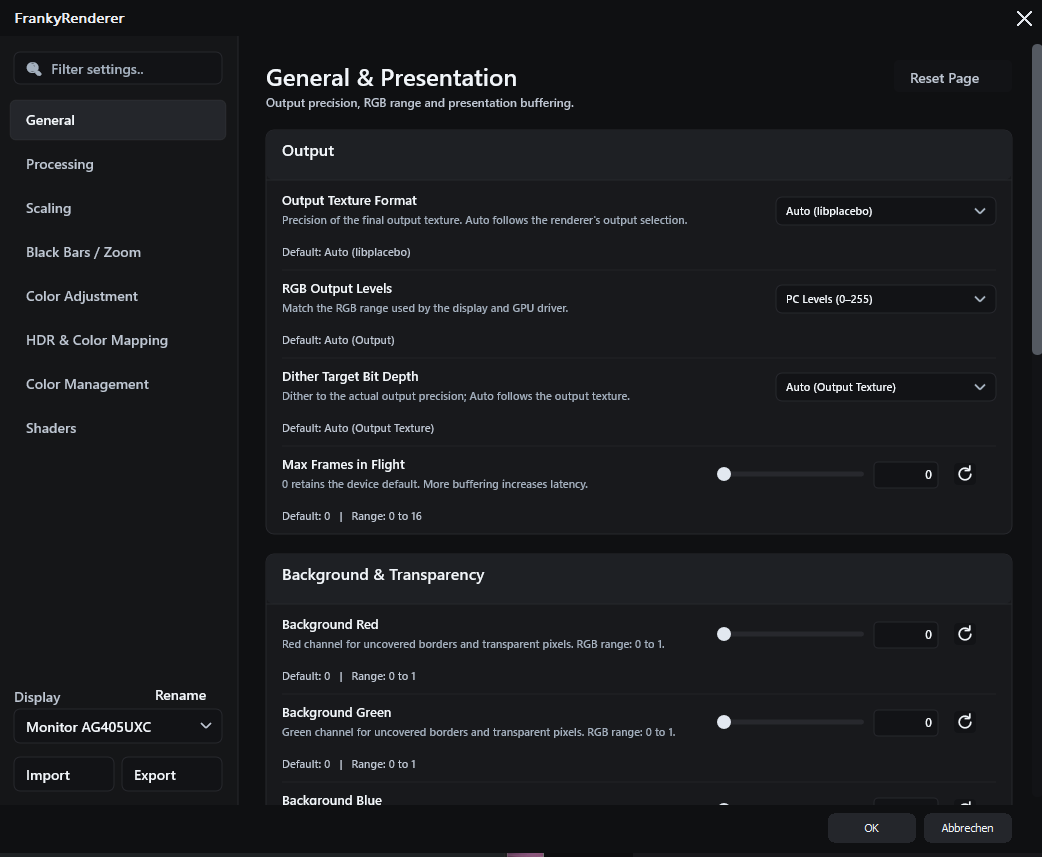
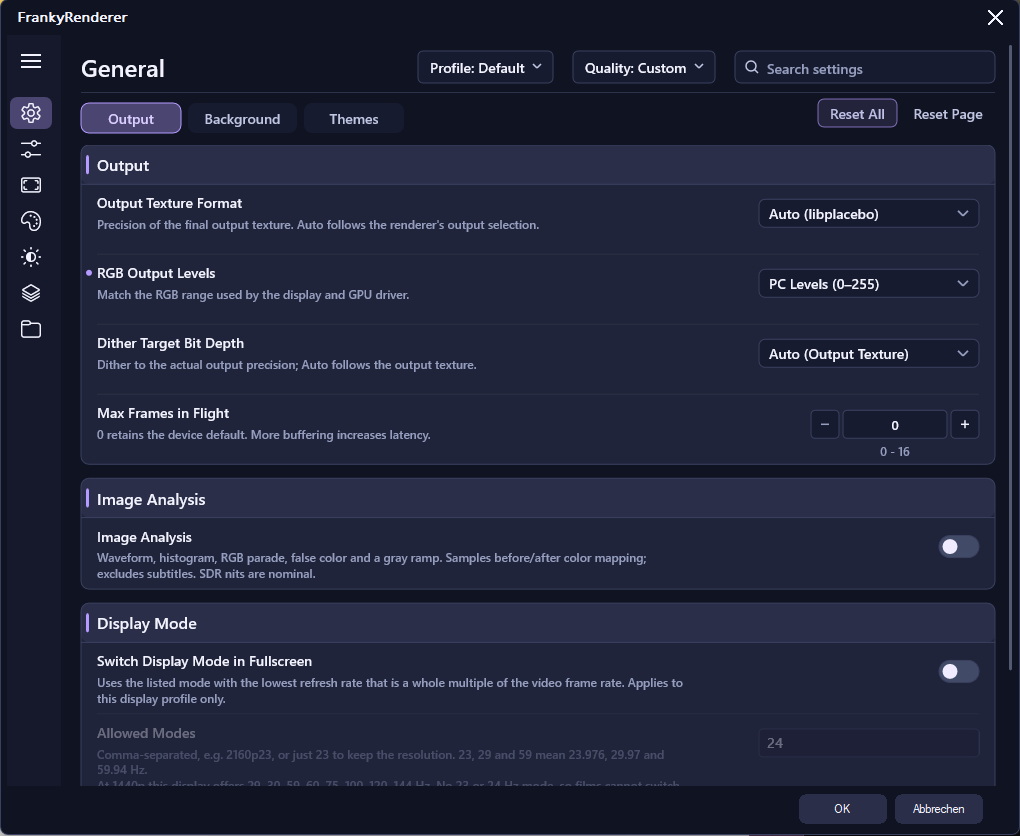
README: features and screenshots for 1.2

diff --git a/README.md b/README.md
@@ -18,14 +18,14 @@ Questions, ideas and general feedback are welcome in [Discussions](https://githu
 
 <table>
   <tr>
-    <td align="center"><a href="https://raw.githubusercontent.com/mryx007/FrankyRenderer/main/docs/screenshots/general.png"><img src="docs/screenshots/general.png" width="240" alt="General &amp; Presentation"></a><br><sub>General &amp; Presentation</sub></td>
-    <td align="center"><a href="https://raw.githubusercontent.com/mryx007/FrankyRenderer/main/docs/screenshots/scaling.png"><img src="docs/screenshots/scaling.png" width="240" alt="Scaling &amp; Frame Mixing"></a><br><sub>Scaling &amp; Frame Mixing</sub></td>
-    <td align="center"><a href="https://raw.githubusercontent.com/mryx007/FrankyRenderer/main/docs/screenshots/color-adjustment.png"><img src="docs/screenshots/color-adjustment.png" width="240" alt="Color Adjustment"></a><br><sub>Color Adjustment</sub></td>
+    <td align="center"><a href="https://raw.githubusercontent.com/mryx007/FrankyRenderer/main/docs/screenshots/general.png"><img src="docs/screenshots/general.png" width="240" alt="General"></a><br><sub>General</sub></td>
+    <td align="center"><a href="https://raw.githubusercontent.com/mryx007/FrankyRenderer/main/docs/screenshots/scaling.png"><img src="docs/screenshots/scaling.png" width="240" alt="Scaling"></a><br><sub>Scaling</sub></td>
+    <td align="center"><a href="https://raw.githubusercontent.com/mryx007/FrankyRenderer/main/docs/screenshots/color-calibration.png"><img src="docs/screenshots/color-calibration.png" width="240" alt="Color calibration (light theme)"></a><br><sub>Color calibration (light theme)</sub></td>
   </tr>
   <tr>
-    <td align="center"><a href="https://raw.githubusercontent.com/mryx007/FrankyRenderer/main/docs/screenshots/hdr-color-mapping.png"><img src="docs/screenshots/hdr-color-mapping.png" width="240" alt="HDR &amp; Color Mapping"></a><br><sub>HDR &amp; Color Mapping</sub></td>
-    <td align="center"><a href="https://raw.githubusercontent.com/mryx007/FrankyRenderer/main/docs/screenshots/color-management.png"><img src="docs/screenshots/color-management.png" width="240" alt="Color Management"></a><br><sub>Color Management</sub></td>
-    <td align="center"><a href="https://raw.githubusercontent.com/mryx007/FrankyRenderer/main/docs/screenshots/shaders.png"><img src="docs/screenshots/shaders.png" width="240" alt="Shader Chain"></a><br><sub>Shader Chain</sub></td>
+    <td align="center"><a href="https://raw.githubusercontent.com/mryx007/FrankyRenderer/main/docs/screenshots/hdr.png"><img src="docs/screenshots/hdr.png" width="240" alt="HDR"></a><br><sub>HDR</sub></td>
+    <td align="center"><a href="https://raw.githubusercontent.com/mryx007/FrankyRenderer/main/docs/screenshots/shaders.png"><img src="docs/screenshots/shaders.png" width="240" alt="Shaders"></a><br><sub>Shaders</sub></td>
+    <td align="center"><a href="https://raw.githubusercontent.com/mryx007/FrankyRenderer/main/docs/screenshots/profiles.png"><img src="docs/screenshots/profiles.png" width="240" alt="Profiles"></a><br><sub>Profiles</sub></td>
   </tr>
 </table>
 
@@ -43,8 +43,13 @@ Click a preview to open the full-size image. The screenshots show example settin
 - Support for 8-, 10-, 12- and 16-bit input layouts, including NV12, P010/P012/P016, planar YUV, packed YUV, RGB and grayscale formats. Native GPU input depends on the decoder's texture format and device capabilities.
 - Selectable output texture format: automatic, 8-bit integer, preferred 10-bit integer or preferred 16-bit float.
 - Configurable RGB output levels, dither target bit depth and maximum frames in flight.
-- D3D11 subtitle composition through compatible host callbacks.
-- Automatic Dolby Vision Profile 7 FEL/MEL processing for supported local progressive files, integrated into the renderer without an additional DirectShow filter. The existing splitter and base-layer decoder remain in use; enhancement data is read from the same local file.
+- Display mode switching in fullscreen like madVR: each display has its own list of allowed modes (for example 2160p23, 2160p24, 2160p50, 2160p60), the original mode is restored when leaving fullscreen or stopping, and playback can pause while the TV resynchronises.
+- D3D11 subtitle composition through compatible host callbacks, and XySubFilter support.
+
+### Dolby Vision and HDR metadata
+
+- Automatic Dolby Vision Profile 7 FEL/MEL processing for local files, including UHD Blu-ray BDMV `.m2ts` clips and `.mpls` playlists, integrated into the renderer without an additional DirectShow filter. The existing splitter and base-layer decoder remain in use.
+- Dolby Vision Profile 5 and 8, HDR10 and HDR10+ metadata (including the HDR10+ tone-mapping curve) is applied even when the player's decoder does not pass it on.
 
 ### Scaling and Smooth Motion
 
@@ -52,8 +57,8 @@ Click a preview to open the full-size image. The screenshots show example settin
 - EWA Lanczos / Jinc, EWA Lanczos Sharp, Lanczos, Spline16/36/64, Mitchell, Bicubic, Robidoux and additional libplacebo filters.
 - Custom filter editor with a starting filter, kernel, window, radius, clamp, blur, taper, anti-ringing, kernel/window parameters and EWA mode.
 - Global anti-ringing strength and configurable downscaling anti-aliasing behavior.
-- Smooth Motion through temporal frame mixing, with selectable and customizable frame mixer filters.
-- Optional NVIDIA RTX Video Super Resolution through the driver, without an additional NVIDIA runtime DLL or helper process. Enable Super Resolution and choose quality in the NVIDIA app or Control Panel. Processed source images are cached before Smooth Motion; subtitles and final color processing follow afterward. Supports SDR and HDR10/PQ with 8-/10-bit processing; unsupported formats and native-size/downscaled output keep normal libplacebo scaling. Statistics report the driver request, not independently confirmed AI activity. Dolby Vision, HLG, linear, rotated and alpha-bearing input use normal scaling.
+- Smooth Motion through temporal frame mixing, with selectable and customizable frame mixer filters, "Present in Advance" (1 to 4 refreshes or automatic, like madVR) and an "Oversample Threshold" for fewer double edges on motion.
+- Optional NVIDIA RTX Video Super Resolution through the driver, without an additional NVIDIA runtime DLL or helper process. Enable Super Resolution and choose quality in the NVIDIA app or Control Panel. Supports SDR and HDR10/PQ with 8-/10-bit processing; unsupported formats and native-size/downscaled output keep normal libplacebo scaling.
 
 ### Image processing
 
@@ -61,14 +66,16 @@ Click a preview to open the full-size image. The screenshots show example settin
 - Adaptive Sharpen with adjustable strength.
 - Bwdif and Yadif deinterlacing with temporal references, automatic field order and manual top/bottom-field overrides.
 - Blue-noise, ordered and random dithering, with optional temporal dithering.
+- Image analysis overlay: waveform, histogram, RGB parade, false colour and a gray ramp, sampled before and after colour mapping.
 
 ### HDR and color mapping
 
-- Two HDR modes: Passthrough HDR to Display and Tone Map HDR to SDR.
-- Native NVIDIA HDR10 passthrough sends HDR metadata to the display while leaving the Windows HDR setting off. Moving the video between displays updates the HDR output, including while paused, and restores the previous display's state. This driver path has been tested on NVIDIA hardware; AMD native HDR output is not implemented.
+- Three HDR modes: Passthrough HDR to Display, Tone Map HDR to Display Peak (keeps HDR output but rolls off highlights above the display's peak, for monitors and laptops that do not tone map themselves) and Tone Map HDR to SDR.
+- Native NVIDIA HDR10 passthrough sends HDR metadata to the display while leaving the Windows HDR setting off. Moving the video between displays updates the HDR output, including while paused, and restores the previous display's state. AMD native HDR output is not implemented.
+- RTX Video HDR for SDR videos (NVIDIA RTX GPU, Windows HDR on).
 - A Clipping Protection switch for HDR-to-SDR tone mapping.
 - Tone mapping functions including Spline, BT.2390, BT.2446A, Reinhard, Mobius, Hable and ST 2094 curves.
-- Adjustable SDR target brightness and HDR peak override.
+- Adjustable SDR target brightness, HDR target peak and HDR peak override.
 - HDR peak detection with smoothing, scene-change thresholds, percentile selection, black cutoff and delayed peak detection control.
 - Detailed tone curve controls for knee adaptation, Spline slope/contrast and other function-specific parameters.
 - Local contrast recovery with adjustable strength and smoothness.
@@ -77,44 +84,47 @@ Click a preview to open the full-size image. The screenshots show example settin
 - Separate HDR Shadows, Midtones and Highlights controls, each with exposure, contrast and saturation adjustments.
 - Inverse tone mapping, gamut expansion, metadata selection and clipping/LUT visualization controls.
 
-### Color adjustment and management
+### Color adjustment and calibration
 
 - Brightness, contrast, saturation, gamma, hue and color temperature controls.
+- Display gamut (BT.709, SMPTE C, EBU / PAL, BT.2020, DCI-P3, P3-D65) for wide-gamut displays in their native mode.
+- Display gamma (Auto, 1.80 to 2.80 in steps of 0.05, or BT.1886 with the display's measured contrast) for HDR tone mapped to SDR, and SDR gamma processing to make SDR look like a chosen gamma on that display.
 - SDR ICC profile support with selectable rendering intent.
 - Custom `.cube` LUT loading and LUT interpretation controls.
 
 ### Shader chain
 
-- 21 bundled mpv-compatible GLSL shaders from the PlayKit collection, with original authorship and license notices preserved.
-- Neural/adaptive upscaling options: FSRCNNX 2x, AiUpscale Photo 2x and RAVU Zoom.
+- 23 bundled mpv-compatible GLSL shaders, with original authorship and license notices preserved.
+- Neural/adaptive upscaling options: FSRCNNX 2x, AiUpscale Photo 2x, RAVU Zoom, RAVU Zoom R3 and RAVU Zoom AR R3.
 - Animation-oriented upscaling: Anime4K CNN 2x M, ArtCNN C4F16 and CuNNy 2x12 DS.
 - Chroma reconstruction: KrigBilateral and CfL Prediction.
 - Sharpening, detail and local contrast: AMD CAS, Guided Detail Enhance and Clarity.
 - Edge cleanup: FineDehalo, Anti-Ringing and PixelClipper.
 - Denoising and debanding: NLMeans, Bilateral Denoise, Chroma Denoise, hdeband and neo-f3kdb.
 - Detail-aware downscaling: SSimDownscaler and DPID.
-- Per-shader parameters, configurable processing order and double-click enable/disable controls.
+- Per-shader parameters (on/off switches where a parameter only knows 0 or 1) and a configurable processing order.
 
 ### Black bars and zoom
 
-- Automatic detection of hardcoded black bars from video pixels.
+- Automatic detection of hardcoded black bars from video pixels; end credits are not mistaken for black bars.
 - Crop and zoom controls to fit active content or fill the output.
 - Adjustable detection threshold, switching delay and stable zoom behavior.
 - Protection for detected subtitle content in the black bars.
 
-### Settings, presentation and diagnostics
+### Profiles and displays
 
-- Native dark settings interface drawn with Direct2D and DirectWrite, with English sections for General, Processing, Scaling, Black Bars / Zoom, Color Adjustment, Color Management, HDR and Color Mapping, and Shaders.
-- Search across settings, scrollable pages, readable descriptions and explicit default values and ranges.
-- Compact shader list with double-click enable/disable and a parameter editor for the selected shader.
-- Live settings preview: valid changes appear immediately; OK keeps them and Cancel restores the dialog's opening values.
-- Separate settings for each display, with editable device names. Newly connected displays start with default settings; reconnecting a known display restores its saved profile.
-- Import and export all saved display profiles in one INI backup, including disconnected devices and custom names. Older single-profile INI files can still be imported into the selected display.
-- Numeric entry, fine adjustment steps, reset controls and contextual descriptions.
+- Profiles: videos from folders you choose get their own settings, for example a different upscaler for anime. A profile only stores what differs from the normal settings and can be limited to certain displays.
+- Separate normal settings for each display, with editable device names, or "Same Settings on All Displays" to set every display at once.
+- Import and export all saved settings in one INI backup, including disconnected displays and custom names.
+
+### Settings and diagnostics
+
+- Settings menu drawn with Direct2D and DirectWrite, with themes and translations (English, German, Chinese Simplified; more on Weblate).
+- The player stays usable while the menu is open: pause, seek or switch to fullscreen and compare settings live. OK keeps the changes, Cancel restores the opening values.
+- Quality presets (Fast / Default / High Quality), "Measure this PC" to pick the best settings for the GPU, and "Custom" to return to your own settings.
+- Search across settings, readable descriptions, explicit default values and ranges, Reset Page and Reset All.
 - Configurable background color, transparency and rendering quality/performance options.
-- PotPlayer fullscreen playlist-transition handling.
-- Compact settings layout for smaller displays and stable window resizing: the image holds during size changes and resumes when the size settles, including before the mouse button is released. Audio playback continues.
-- Ctrl+J statistics with display/video information, active processing settings, frame counters, presentation timing and CPU/GPU render timings.
+- Ctrl+J statistics grouped into Display, Video, Processing and Performance, with render time against the time available per picture, drop counters and Dolby Vision status.
 - Persistent shader cache for reusing compiled processing work across playback sessions.
 
 </details>
